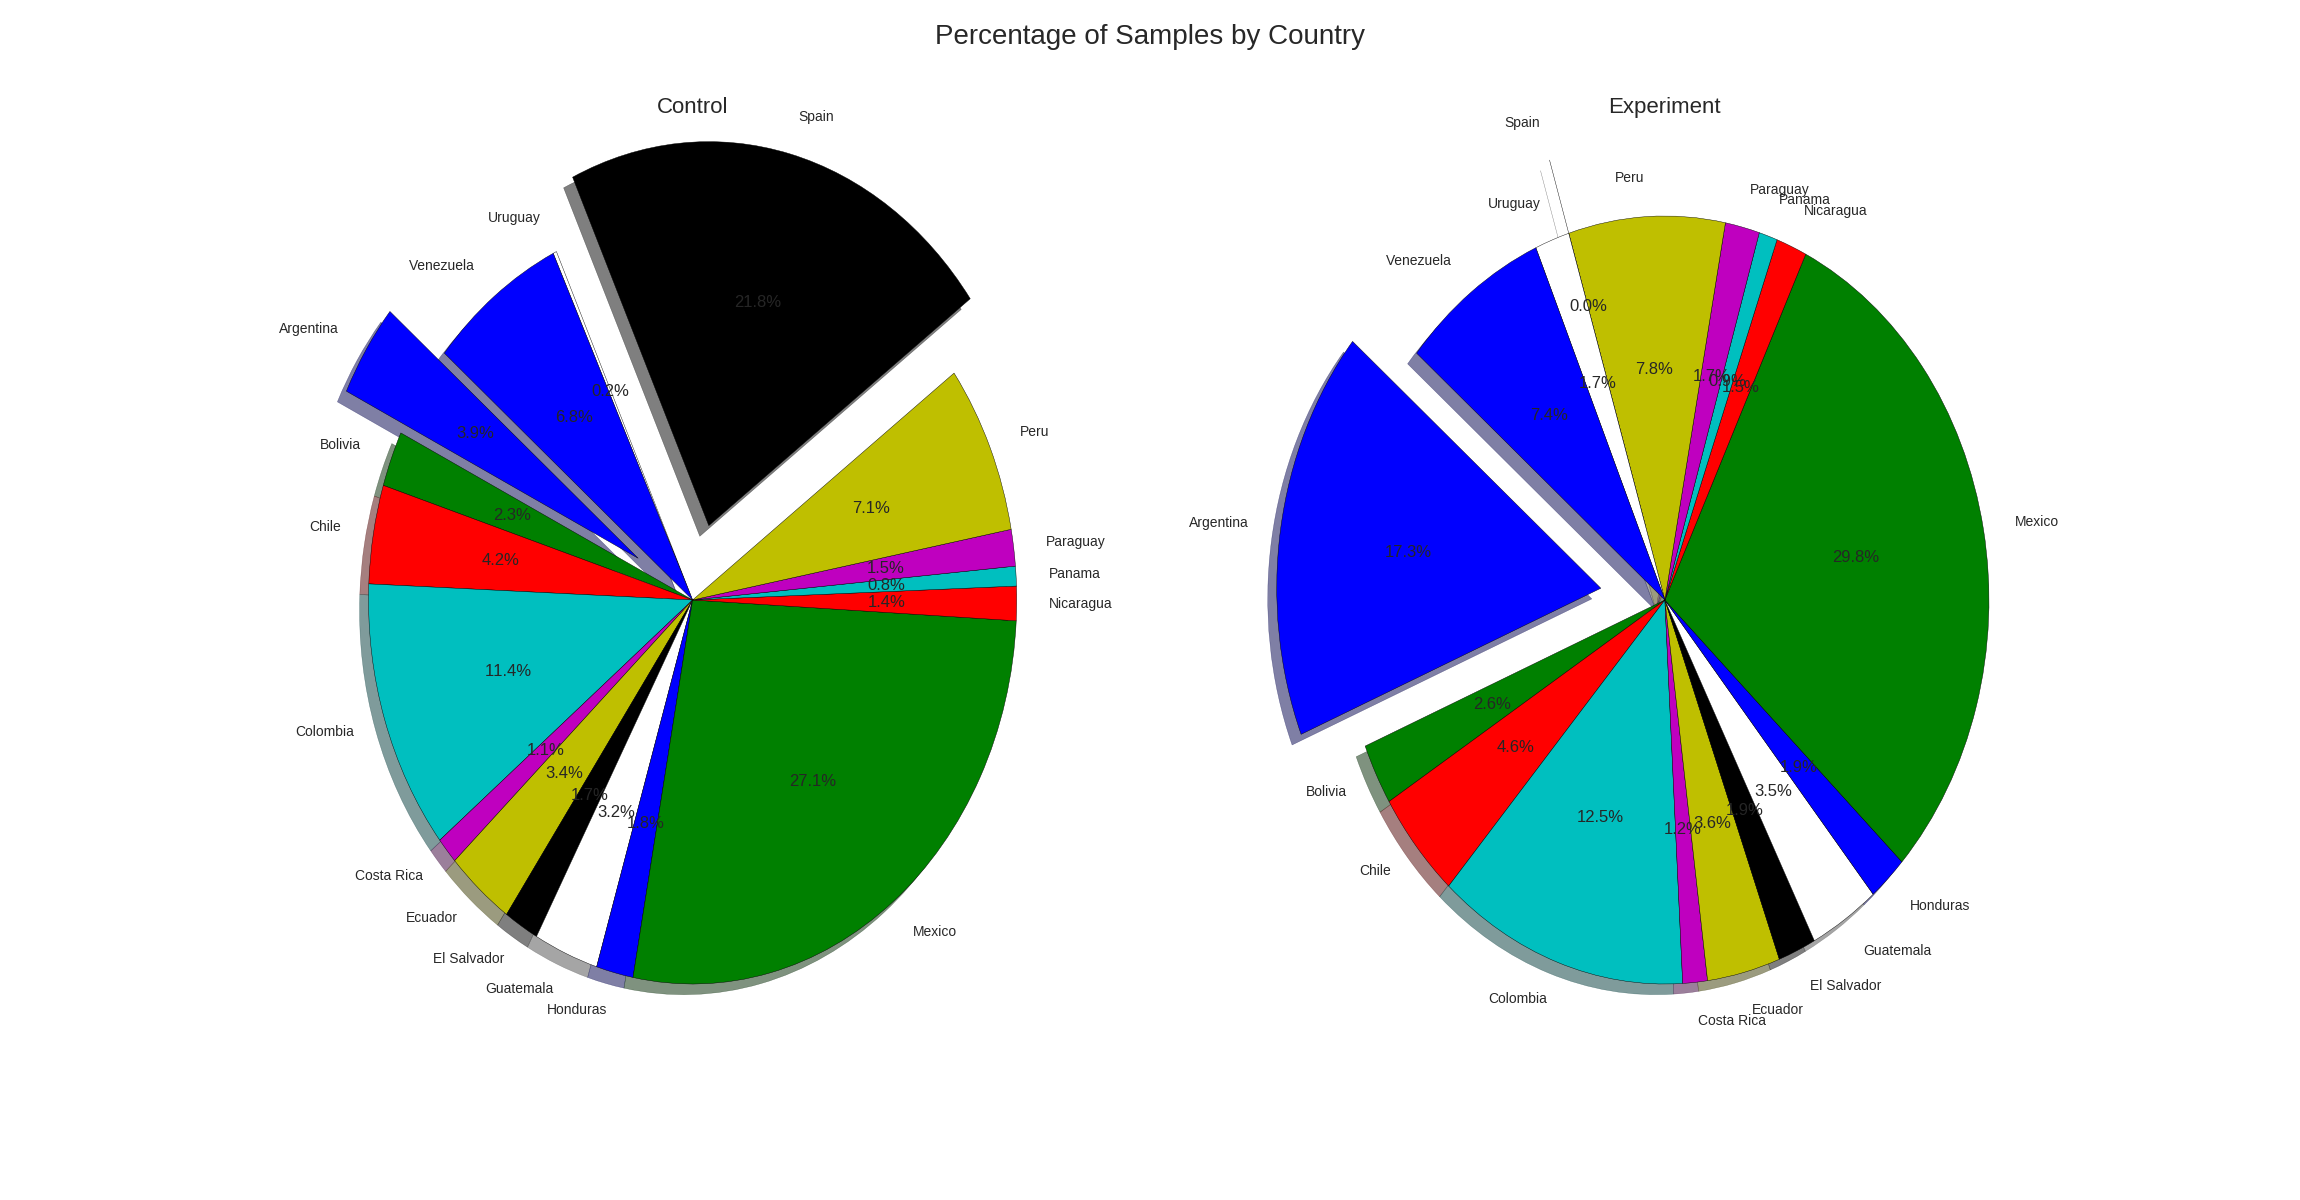
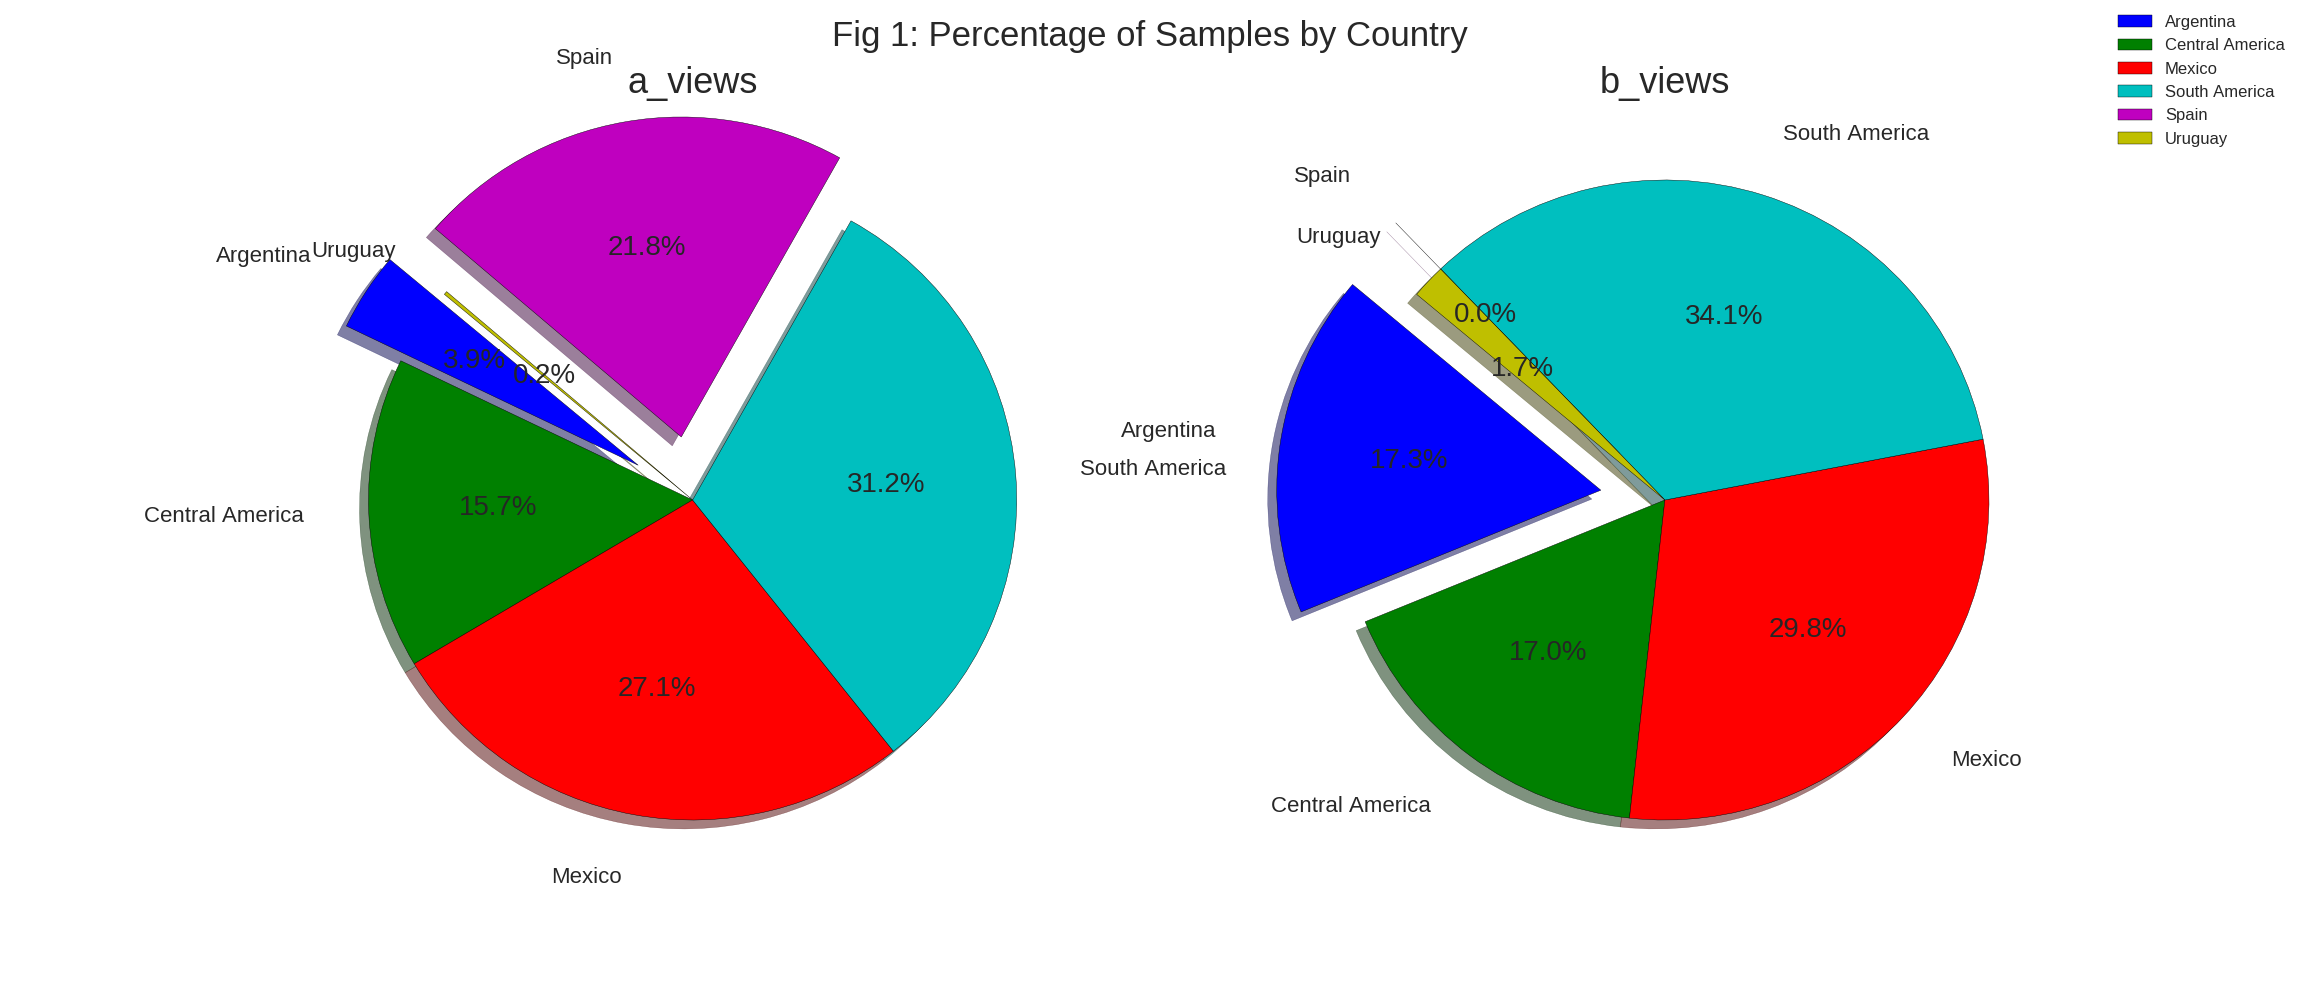
Incorported Feedback from Tyler

diff --git a/eda.py b/eda.py
@@ -1,140 +1,193 @@
-from imblearn.over_sampling import RandomOverSampler
-from sklearn.decomposition import PCA
-from sklearn.cluster.k_means_ import MiniBatchKMeans
-import pandas as pd
 import matplotlib.pyplot as plt
-import seaborn as sns
-from sklearn.model_selection import train_test_split
-from sklearn.naive_bayes import BernoulliNB
-import scipy.stats as st
-
-from sklearn.linear_model import LogisticRegression
-from statsmodels.discrete.discrete_model import Logit,LogitResults
-from sklearn.metrics import confusion_matrix,f1_score
-
-from sklearn.metrics.pairwise import pairwise_distances_argmin
-from sklearn.ensemble import RandomForestClassifier,GradientBoostingClassifier
 import numpy as np
-pd.set_option('display.width',1000)
+import pandas as pd
+import scipy.stats as st
+from sklearn.ensemble import RandomForestClassifier
+from sklearn.metrics import confusion_matrix, f1_score
+from sklearn.model_selection import train_test_split
+import matplotlib as mpl
+import seaborn as sns
+
+
+mpl.rcParams['font.size'] = 20.0
+pd.set_option('display.width', 1000)
+
+
+
+areas={1:'Central America', 2:'Mexico',3:'South America',4:'Spain',5:'Argentina',6:'Uruguay'}
+map={ 'Honduras': 1, 'Peru': 3, 'Uruguay': 6, 'El Salvador': 3,
+     'Nicaragua': 1, 'Panama': 1, 'Mexico': 2, 'Costa Rica': 1, 'Guatemala': 1,
+     'Chile': 3, 'Ecuador': 1, 'Colombia': 3, 'Paraguay': 1, 'Argentina': 5,
+     'Bolivia': 1, 'Venezuela': 3, 'Spain': 4}
+
+
+
 
 def combine_tables():
-    test=pd.read_csv('test_table.csv')
-    user=pd.read_csv('user_table.csv')
-    c=pd.merge(test,user, how='left',left_on='user_id',right_on='user_id', suffixes=('_l','_r'),indicator=True)
+    '''left outer joining the test table with 3the user table'''
+    test = pd.read_csv('test_table.csv')
+    user = pd.read_csv('user_table.csv')
+    c = pd.merge(test, user, how='left', left_on='user_id', right_on='user_id', suffixes=('_l', '_r'), indicator=True)
+
+    c=c.query("country == country ")
+    c['regions']=c['country'].apply(lambda x: areas [map [x] ] )
+
     return c
 
-
-
 def model_inputs():
+    '''remove unnecessary data and dummifying categorical variables'''
+    
+    d.drop(['age', '_merge', 'date', 'user_id'], axis=1, inplace=True)
+    y = d.pop('conversion')
+    dummies = pd.get_dummies(d, columns=['sex', 'ads_channel', 'source', 'device', 'browser_language', 'browser',
+                                         'country'])
+    x = pd.concat([dummies, d['test']], axis=1)
+    return x, y
 
-    d.drop(['age','_merge','date','user_id'],axis=1,inplace=True)
-    y=d.pop('conversion')
-    dummies=pd.get_dummies(d,columns=['sex','ads_channel','source','device','browser_language','browser' ,'country'])
-    x=pd.concat([dummies,d['test']],axis=1)
-    return   x,y
 
-
-def undersample(df,c=None):
-    positive=df[df[c]==1]
-    negative=df[df[c]==0]
-    minsamp=min(len(positive),len(negative))
-    positive=positive.sample(n=minsamp)
-    negative=negative.sample(n=minsamp)
-    combine=pd.concat([positive,negative],axis=0)
+def undersample(df, c=None):
+    '''undersample majority class'''
+    positive = df[df[c] == 1]
+    negative = df[df[c] == 0]
+    minsamp = min(len(positive), len(negative))
+    positive = positive.sample(n=minsamp)
+    negative = negative.sample(n=minsamp)
+    combine = pd.concat([positive, negative], axis=0)
     return combine
 
 
-
-
 def classify():
-
+    ''''''
+    
     data = combine_tables().query("country not in ['Spain']")
-    data=undersample(data,c='conversion')
-    y=data.pop('conversion')
+    data = undersample(data, c='conversion')
+    y = data.pop('conversion')
 
-    dummies=pd.get_dummies(data,columns=['country','browser','browser_language','device','ads_channel','source','sex'])
-    dummies.drop(['user_id','date','age','_merge','test'],inplace=True, axis=1)
+    dummies = pd.get_dummies(data, columns=['country', 'browser', 'browser_language', 'device', 'ads_channel', 'source',
+                                            'sex'])
+    dummies.drop(['user_id', 'date', 'age', '_merge', 'test'], inplace=True, axis=1)
 
-    x=dummies
+    x = dummies
     xtrain, xtest, ytrain, ytest = train_test_split(x, y, test_size=.30)
 
-    model=RandomForestClassifier()
+    model = RandomForestClassifier()
 
-    fit=model.fit(xtrain,ytrain)
+    fit = model.fit(xtrain, ytrain)
 
-    ypredict=model.predict(xtest)
+    ypredict = model.predict(xtest)
 
     print 'confusion matrix'
-    conf=confusion_matrix(ytest,ypredict)
+    conf = confusion_matrix(ytest, ypredict)
     print conf
-    f1=f1_score(ytest,ypredict)
-    print 'f1 score =' ,f1
+    f1 = f1_score(ytest, ypredict)
+    print 'f1 score =', f1
 
-    most_import_index= np.argsort(model.feature_importances_)[::-1]
+    most_import_index = np.argsort(model.feature_importances_)[::-1]
     print 'feature importances'
     print x.columns
     for i in most_import_index:
         print x.columns[i]
 
-def eda():
-    data=combine_tables().query("country not in ['Spain','Argentina','Uruguay']")
-    fields=['country','sex','browser_language','browser','source']
-    columns='test'
-    values='conversion'
 
-    for i in fields:
-        total=pd.pivot_table (data,values=values,index=i,columns=columns,aggfunc="count")
-        convert=pd.pivot_table(data, values=values, index=i, columns=columns, aggfunc="sum")
-        rate=pd.pivot_table(data,values=values,index=i,columns=columns,aggfunc='mean')
-        m=pd.concat([total, convert, rate],axis=1)
-        print m
+def pivot_table(query=None,field=None,columns='test',values=None):
+    '''create pivot tables for graphs and eda '''
+    data = combine_tables()
 
+    if query:
+        data=data.query(query)
+    #    "country not in ['Spain','Argentina','Uruguay']")
+    #fields = ['country', 'sex', 'browser_language', 'browser', 'source']
+    #columns = 'test'
+    #values = 'conversion'
 
+    
+    total = pd.pivot_table(data, values=values, index=field, columns=columns, aggfunc="count")
+    total.columns=['a_views','b_views']
+    convert = pd.pivot_table(data, values=values, index=field, columns=columns, aggfunc="sum")
+    convert.columns=['a_clicks','b_clicks']
+    rate = pd.pivot_table(data, values=values, index=field, columns=columns, aggfunc='mean')
+    rate.columns=['a_rate','b_rate']
+    m = pd.concat([total, convert, rate], axis=1)
+    return m
 
-        if i=='country':
+def plot_conversions():
 
-            f=plt.figure(3,figsize=(25,15))
-            f.suptitle('Fig 3: Conversion Rate by Country',fontsize=22)
-            ax=f.add_subplot(111)
-            plt.plot(xrange(len(m)),m.iloc[:,4], label='control')
-            plt.plot(xrange(len(m)), m.iloc[:, 5],label='exp')
-            ax.set_xticklabels(m.index,fontsize=14,rotation=45)
-            plt.yticks(fontsize=16)
-            plt.legend(loc=0,fontsize=20)
-
-            f=plt.figure(num=1,figsize=(23,12))
-
-            f.suptitle('Fig 2: Percentage of Samples by Country (Spain, Argentina, Uruguay Removed)',fontsize=20)
-            ax=f.add_subplot(121)
-
-            labels = m.index
-            sizes = m.iloc[:,1]
-            colors=None
-            explode = [.2 if i in ['Argentina','Spain'] else 0 for i in labels]
-
-            plt.pie(sizes,explode=explode , labels=labels, colors=colors,
-                    autopct='%1.1f%%', shadow=True, startangle=140,)
-            plt.title('Control',fontsize=16)
+    data=pivot_table(query = "country != 'Spain'", field=['country'],columns='test',values='conversion')
+    # query = "country != 'Spain'"
 
 
-            ax2=f.add_subplot(122)
-            sizes=m.iloc[:,0]
-            ax2.pie(sizes, explode=explode, labels=labels, colors=colors,
-                    autopct='%1.1f%%', shadow=True, startangle=140,)
-            plt.title('Experiment',fontsize=16)
-            plt.show()
+    data[['a_rate','b_rate']].sort_index(ascending=False).plot.barh()
+     #   .plot(label='control',fontsize=14).bar()
+    #data['b_rate'].plot(label='exp',fontsize=14,)
+
+#    ax.set_xticklabels(fontsize=13, rotation=45)
+    plt.title('Fig 3: Conversion Rate by Country',fontsize=25)
+    plt.yticks(fontsize=20)
+    plt.ylabel('country', fontsize=20)
+    plt.xlabel('conversion rate',fontsize=20)
+    plt.legend(loc=0, fontsize=20)
+
+    plt.show()
+    return
+
+def plot_pie():
+
+    for fig, query  in zip(xrange(1,3),[None,"country not in ['Argentina','Spain','Uruguay']"]):
+        data=pivot_table(field='regions',values='conversion',query=query)
+        data.fillna(0,inplace=True)
+        f = plt.figure(num=fig, figsize=(23, 10))
+        if query:
+            extra_title='where ' + query
+        else:
+            extra_title=''
+        f.suptitle('Fig {}: Percentage of Samples by Country {}'.format(fig,extra_title),fontsize=25)
+        labels = data.index
+        for ct,group in zip(xrange(1,3),['a_views','b_views']):
+            ax = f.add_subplot(1,2,ct)
+            sizes = data[group]
+            colors = None
+            explode = [.2 if i in ['Argentina', 'Spain'] else 0 for i in labels]
+
+            patches, texts, autotexts=ax.pie(sizes, explode=explode, labels=labels, labeldistance=1.2,
+               autopct='%1.1f%%', shadow=True, startangle=140 )
+
+            # #patches, texts = ax.pie(sizes, labels=labels,autopct='%1.1f%%',
+            #                         colors=colors,explode=explode,startangle=10,
+            #                         # labeldistance=0.8)
+            #
+            for t in texts:
+                #t.set_horizontalalignment('left')
+                t.set_fontsize(16)
+
+            if ct%2!=0:
+
+                plt.legend(bbox_to_anchor=(1, 1),
+                           bbox_transform=plt.gcf().transFigure,fontsize=12)
+            plt.title(group, fontsize=26)
+
+
+        plt.show()
+
+
+
+
+
+
+plot_pie()
 
 def algo():
+    
+    
+    'create tables for chi-square contingency test'
     data = combine_tables().query("country not in ['Spain']")
     fields = ['sex', 'country', 'browser_language', 'browser']
     columns = 'test'
     values = 'conversion'
 
-    m= pd.pivot_table(data, values=values, index=fields, columns=columns, aggfunc="count")
-    m.columns=['control','exp']
+    m = pd.pivot_table(data, values=values, index=fields, columns=columns, aggfunc="count")
+    m.columns = ['control', 'exp']
     m = m[m.control.notnull()]
     m = m[m.exp.notnull()]
-
 
     chi2, p, ddof, expected = st.chi2_contingency([m.control, m.exp])
     msg = "Test Statistic: {}\np-value: {}\nDegrees of Freedom: {}"
@@ -142,4 +195,3 @@ def algo():
 
     print 'Samples are balanced: ', p > .05
 
-eda()

diff --git a/Analysis.md b/Analysis.md
@@ -16,7 +16,7 @@ Using all the data in the test, the calculated conversion rates for the control 
  
  ![Fig 1](./SamplePercent.png)
 
-With the removal of Argentina and Spain, the differences between control and experiment are smaller, but the control is still higher.
+To demonstrate the effect of this imbalance, we remove remova Argentina and Spain.  The differences between control and experiment become smaller, but the control is still higher.  In practice, one would keep Argentina, but undersample the over-represented experiment group.
 
 | Group        | views  | conversion | rate  |
 |--------------|--------|------------|-------|
@@ -24,7 +24,7 @@ With the removal of Argentina and Spain, the differences between control and exp
 | Experiment B | 178606 | 8866       | 0.049 |
 
 
-At the aggregate level, the original experiment is balancing the sample size between control and experiment, but it is not doing so for each customer segment.  With Spain and Argentina removed, one can see that the control and group samples have almost equal representation by country as seen in Figure 2:
+Only at the aggregate level, is the original experiment balancing the sample size between control and experiment  With Spain and Argentina (for illustrative purposes)removed, one can see that the control and group samples have almost equal representation by country as seen in Figure 2:
 
 ![Fig 2](./viewpercentages_no_spain_argentina.png)
 
@@ -36,7 +36,7 @@ Figure 3 shows that the conversion rates for Argentina and Uruguay are low and a
 
 ##Automated Algorithm. 
 
-In doing an A/B test, the one input that we can control is the diversion of users to the A or B site.  We need to make sure that there is a balance between the numbers chosen for A or B over all customer segments.  The list below shows the feature importances in descending order.  This was created using a random forest classifier on the conversions.
+In doing an A/B test, the one input that we can control is the diversion of users to the A or B site.  We need to make sure that there is a balance between the numbers chosen for A or B over all customer segments.  The list below shows the feature importances in descending order created by a random forest classifier.  We choose to segment on the features that are most predictive of the classification.
 
 >country_Argentina,
 browser_language_ES,
